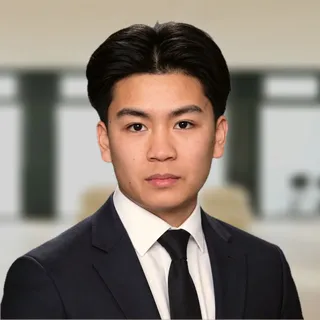
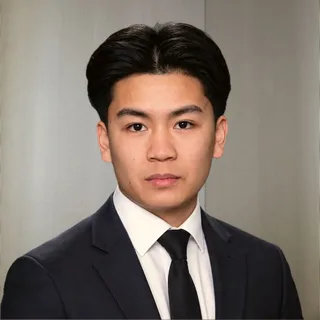
Set the headshot against brushed metal
Replace the office backdrop with a ribbed metal surface and a soft light
gradient, desaturated so it reads like brushed aluminium ("Ribbed metal
surface with light gradient" by Adrien Olichon on Unsplash, Unsplash
License). The fine ribs are kept, and checked for shimmer at the phone
size. The loading placeholder now matches the new backdrop.

diff --git a/app/page.tsx b/app/page.tsx
@@ -183,11 +183,11 @@ function ExternalLink({ href, className, children }: { href: string; className?:
 }
 
 // Square headshot, cut out of its studio backdrop (Apple's on-device Vision
-// subject lift), warmed slightly, and set over a softened Portrait-mode blur of
-// a white open-plan office with tall, dark-framed windows ("A large room with
-// chairs and tables in it" by JIRAN FAMILY on Unsplash, Unsplash License).
-// AVIF, WebP and JPEG at 320px and 640px; the browser picks the smallest file
-// that stays sharp. Regenerate these when the photo changes.
+// subject lift), warmed slightly, and set over a ribbed metal surface with a
+// soft light gradient, desaturated to read like brushed aluminium ("Ribbed
+// metal surface with light gradient" by Adrien Olichon on Unsplash, Unsplash
+// License). AVIF, WebP and JPEG at 320px and 640px; the browser picks the
+// smallest file that stays sharp. Regenerate these when the photo changes.
 function Headshot() {
   const base = `${process.env.NEXT_PUBLIC_BASE_PATH ?? ""}/headshot`;
   const set = (ext: string) => `${base}-320.${ext} 320w, ${base}-640.${ext} 640w`;

diff --git a/app/globals.css b/app/globals.css
@@ -954,9 +954,8 @@ button {
   aspect-ratio: 1;
   object-fit: cover;
   border-radius: 50%;
-  /* the blurred office's soft whites and window frames, so the slot reads as
-     the photo while it loads */
-  background: linear-gradient(180deg, #d9d4cc, #a9a39b);
+  /* the brushed metal's soft greys, so the slot reads as the photo while it loads */
+  background: linear-gradient(180deg, #cbc8c1, #a8a59e);
   /* no outline, just a soft shadow to lift it off the glass */
   box-shadow: 0 10px 24px -14px rgb(8 8 12 / 0.4), 0 34px 64px -20px rgb(8 8 12 / 0.55);
 }
